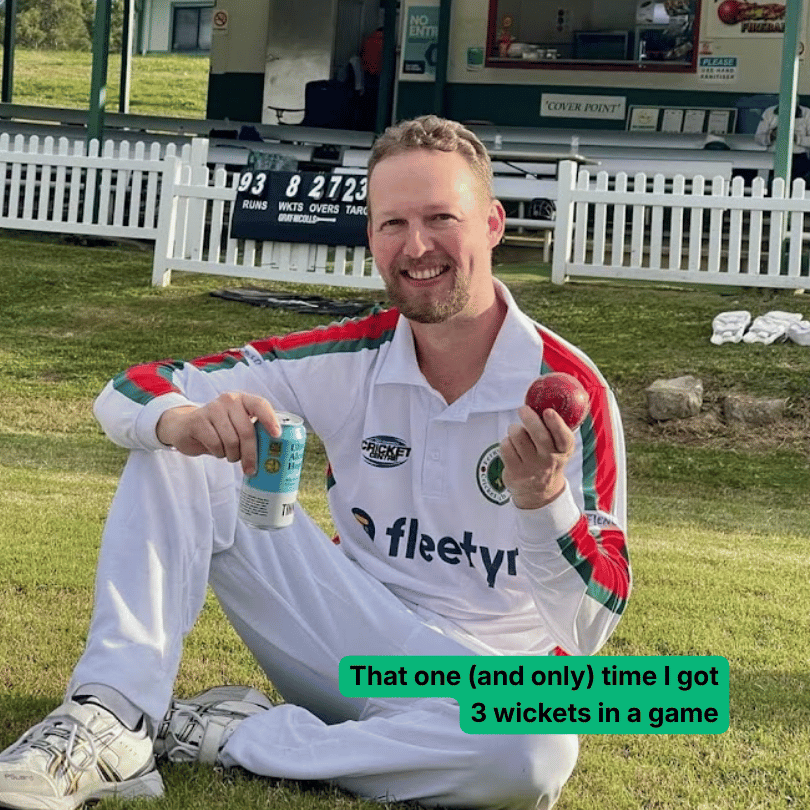
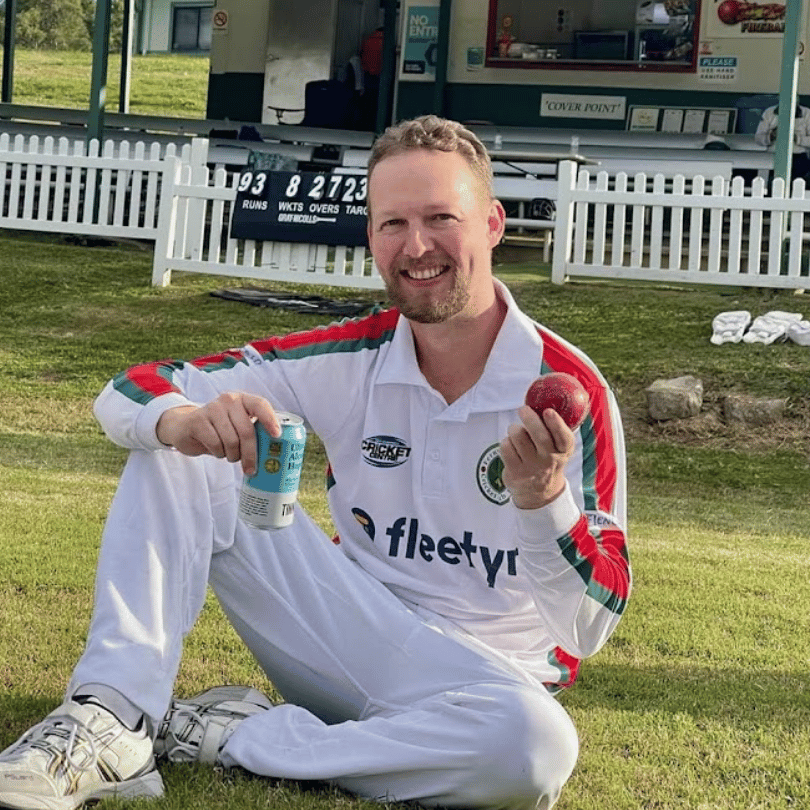
Update Ash bio photo and set card overlay to wicket text with green branded background backing

diff --git a/about.html b/about.html
@@ -184,11 +184,11 @@
                         Fees Please is the result. This isn’t a rushed weekend prototype thrown together by someone playing with basic scripts. It is a fully architected, highly secure, and horizontally scalable SaaS platform designed specifically to support team managers who handle their own team operations.
                     </p>
                 </div>
-                <div style="position: relative; border-radius: 1.5rem; overflow: hidden; border: 1px solid var(--border); aspect-ratio: 4/3;">
-                    <img src="assets/Ash%20Pitt%20-%20Fees%20Please.png" alt="Ash" style="width: 100%; height: 100%; object-fit: cover; display: block;">
-                    <div style="position: absolute; bottom: 0; left: 0; right: 0; background: linear-gradient(to top, rgba(15, 15, 17, 0.9), transparent); padding: 1.5rem; text-align: center;">
-                        <div style="font-size: 1.05rem; font-weight: 700; color: #fff; font-family: 'Outfit', sans-serif; margin-bottom: 0.25rem;">Ash</div>
-                        <div style="font-size: 0.8rem; color: var(--muted);">Founder, C-Grade Organiser &amp; IT Consultant</div>
+                <div style="position: relative; border-radius: 1.5rem; overflow: hidden; border: 1px solid rgba(0, 188, 125, 0.3); background: radial-gradient(circle at center, rgba(0, 188, 125, 0.2) 0%, #0f0f11 100%); aspect-ratio: 4/3;">
+                    <img src="assets/Ash%20Pitt%20-%20Fees%20Please.png" alt="Ash" style="width: 100%; height: 100%; object-fit: cover; display: block; position: relative; z-index: 1;">
+                    <div style="position: absolute; bottom: 0; left: 0; right: 0; background: linear-gradient(to top, rgba(0, 188, 125, 0.95) 0%, rgba(0, 188, 125, 0.8) 50%, transparent 100%); padding: 1.5rem; text-align: center; z-index: 2;">
+                        <div style="font-size: 1.15rem; font-weight: 800; color: #fff; font-family: 'Outfit', sans-serif; margin-bottom: 0.25rem;">Ash</div>
+                        <div style="font-size: 0.85rem; font-weight: 600; color: #fff; text-shadow: 0 1px 2px rgba(0,0,0,0.2);">That one (and only) time he got 3 wickets in a game</div>
                     </div>
                 </div>
             </div>